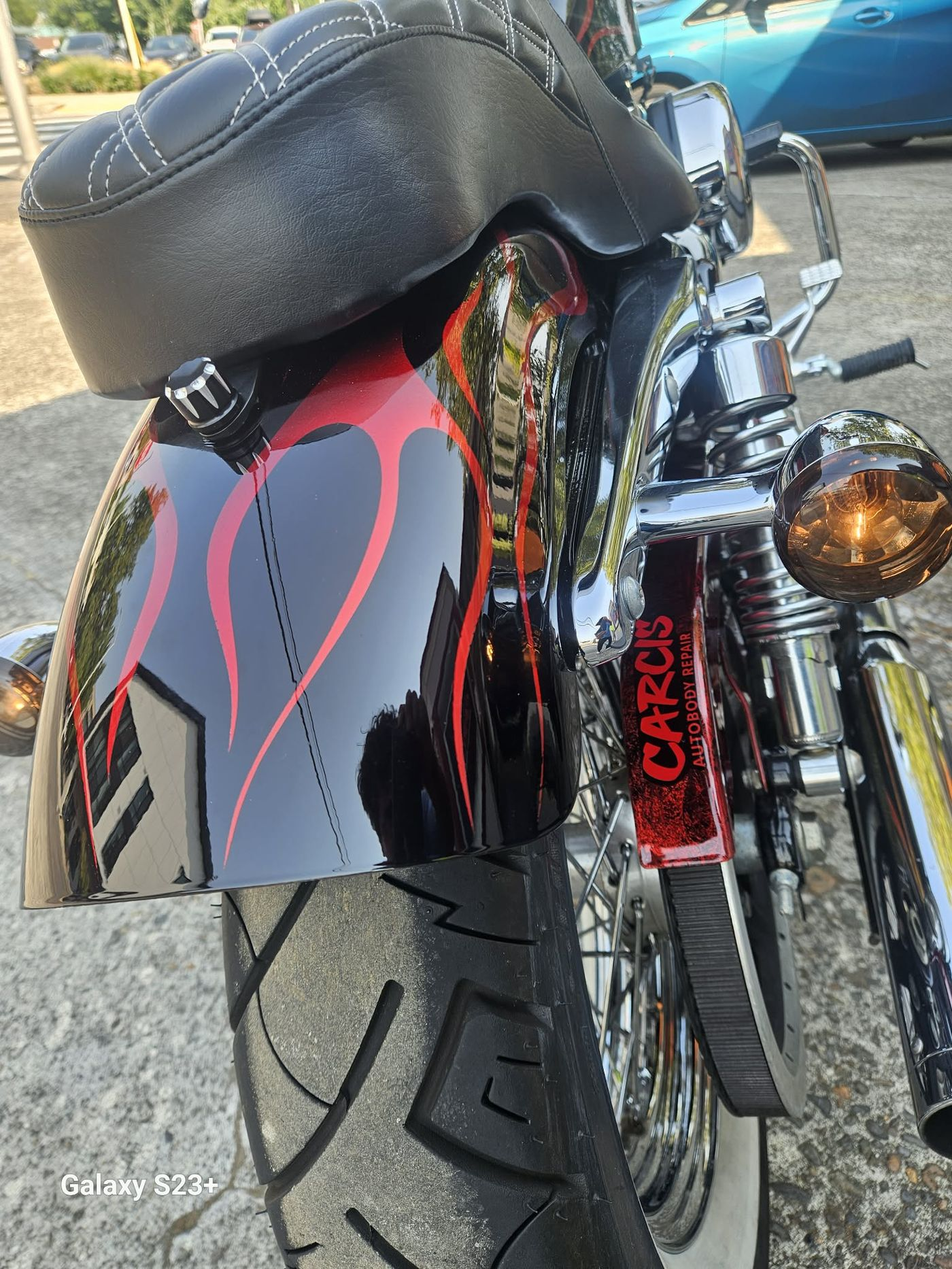
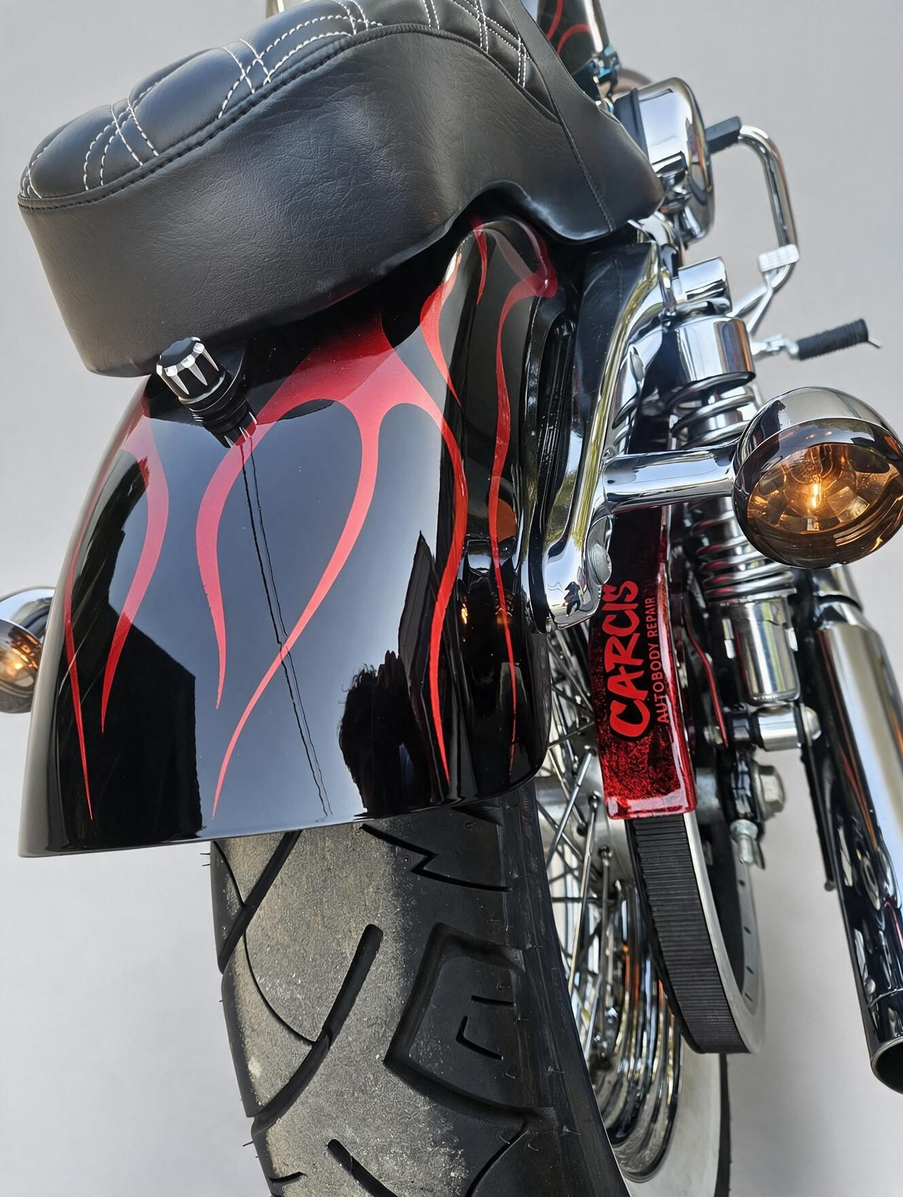
Replace motorcycle gallery photos with clean studio-background versions

diff --git a/index.html b/index.html
@@ -277,11 +277,11 @@
         <span class="gallery-caption">Panel repair, up close</span>
       </div>
       <div class="gallery-item e">
-        <img src="assets/photos/moto-fender-closeup.jpg" alt="Close-up of a custom red flame paint job on a motorcycle rear fender, with a Carcis Autobody Repair license plate frame" loading="lazy" width="1400" height="1866">
+        <img src="assets/photos/moto-fender-closeup.jpg" alt="Close-up of a custom red flame paint job on a motorcycle rear fender, with a Carcis Autobody Repair license plate frame" loading="lazy" width="1328" height="1760">
         <span class="gallery-caption">Custom flame paint, up close</span>
       </div>
       <div class="gallery-item f">
-        <img src="assets/photos/moto-front.jpg" alt="Front view of a custom-painted Harley Davidson motorcycle with red flame details" loading="lazy" width="1400" height="1866">
+        <img src="assets/photos/moto-front.jpg" alt="Front view of a custom-painted Harley Davidson motorcycle with red flame details" loading="lazy" width="1328" height="1760">
         <span class="gallery-caption">Custom paint &amp; design</span>
       </div>
       <div class="gallery-item g">
